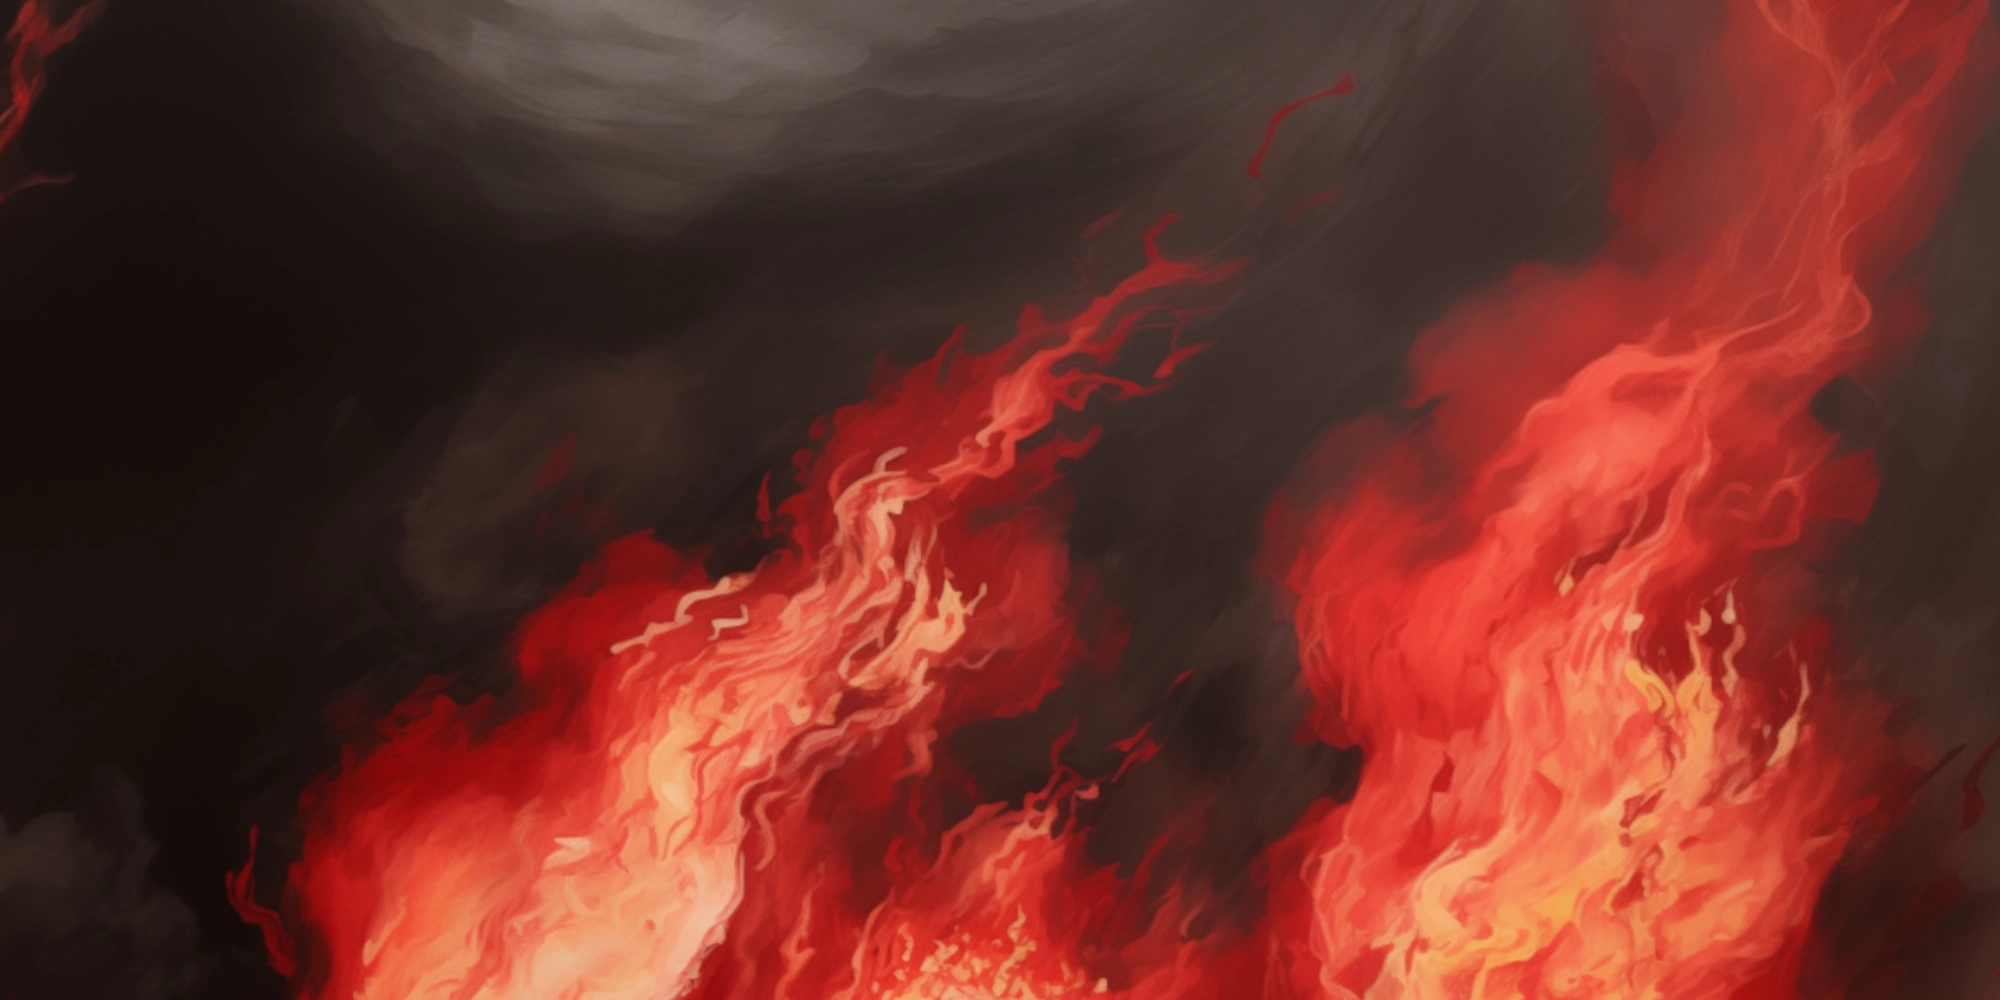
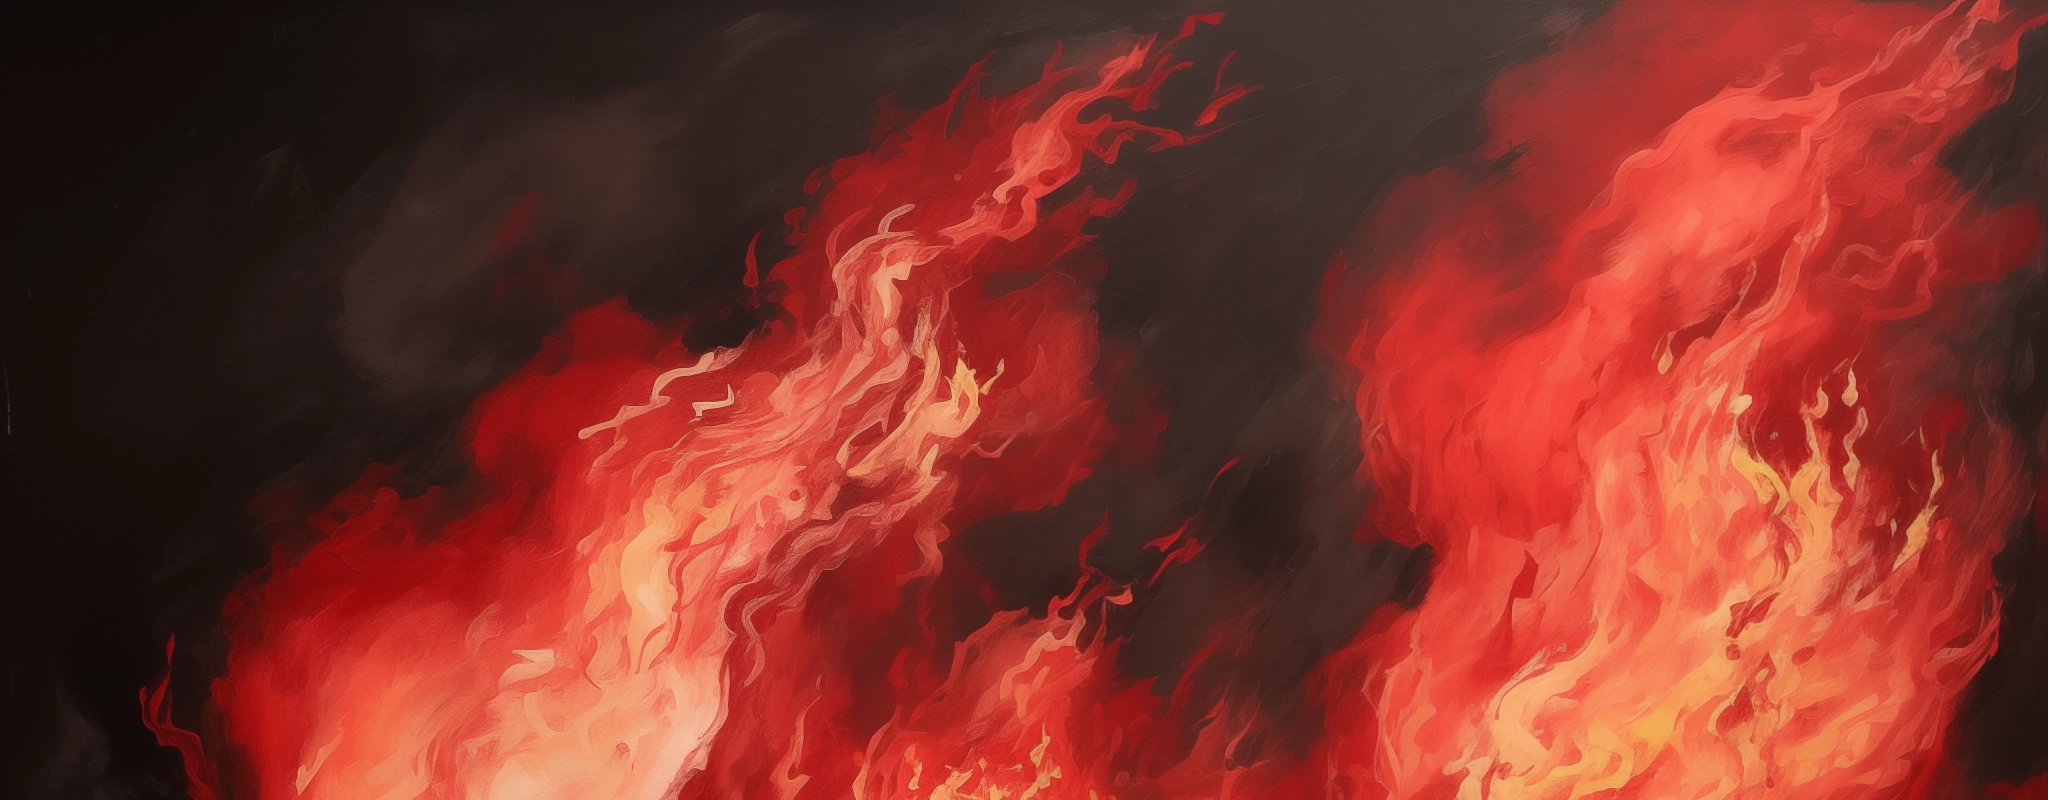
lp edit

diff --git a/src/pages/About/About.tsx b/src/pages/About/About.tsx
@@ -416,21 +416,26 @@ export const Page2Title2 = styled(LPTitleText)`
 
 export const Page2Title2Background = styled.div`
     height: 40vh;
-    background: url("../assets/lpAssets/Page1.webp") center/cover no-repeat;
+    background:
+        linear-gradient(180deg, rgba(0, 0, 0, 0.5) 0%, rgba(0, 0, 0, 0.5) 100%),
+        url("../assets/lpAssets/Page1.webp") center/cover no-repeat;
     display: flex;
     align-items: center;
     justify-content: center;
 `;
 
 export const Page2AdditionalImage = styled.div`
-    --sizeVar: clamp(256px, 30vw, 1024px);
+    /* --sizeVar: clamp(256px, 30vw, 1024px);
     width: var(--sizeVar);
-    height: var(--sizeVar);
+    height: var(--sizeVar); */
+
     background: url("../assets/lpAssets/Page2.webp") center/cover no-repeat;
+    height: 60vh;
+    width: 100vw;
     position: absolute;
-    left: 50%;
+    //left: 50%;
     //top: 12.5%;
-    bottom: 5%;
+    bottom: 12%;
     z-index: -1;
 `;
 
